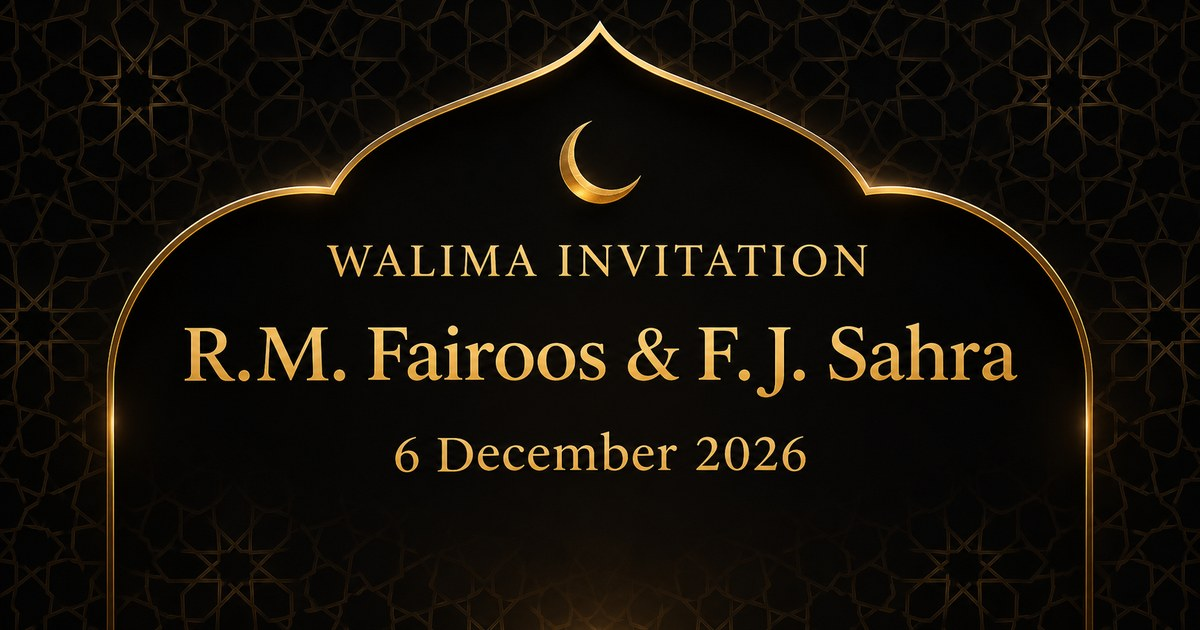
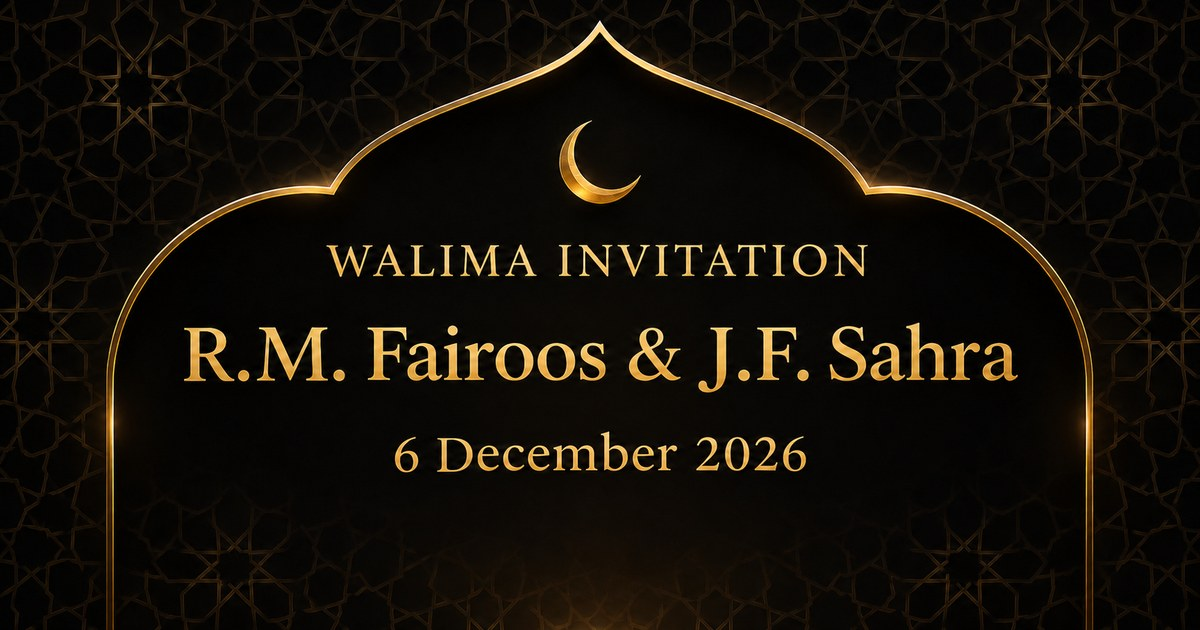
Correct Sahra’s initials to J.F.

diff --git a/index.html b/index.html
@@ -5,16 +5,16 @@
 <meta charset="utf-8">
 <meta name="viewport" content="width=device-width, initial-scale=1, viewport-fit=cover">
 <meta name="theme-color" content="#050507">
-<meta property="og:title" content="Walima · R.M. Fairoos &amp; F.J. Sahra · 6 Dec 2026">
+<meta property="og:title" content="Walima · R.M. Fairoos &amp; J.F. Sahra · 6 Dec 2026">
 <meta property="og:description" content="Join us for our Walima on 6 December 2026 at 12:30 PM at White Reception Hall, Nagawilluwa, Puttalam.">
 <meta property="og:type" content="website">
 <meta property="og:url" content="https://fynextinfo-boop.github.io/walima-invitation/">
-<meta property="og:image" content="https://fynextinfo-boop.github.io/walima-invitation/walima-cover.jpg">
+<meta property="og:image" content="https://fynextinfo-boop.github.io/walima-invitation/walima-cover.jpg?v=jf">
 <meta property="og:image:type" content="image/jpeg">
 <meta property="og:image:width" content="1200">
 <meta property="og:image:height" content="630">
-<meta property="og:image:alt" content="Black and gold Walima invitation for R.M. Fairoos and F.J. Sahra, 6 December 2026.">
-<title>Walima · R.M. Fairoos &amp; F.J. Sahra</title>
+<meta property="og:image:alt" content="Black and gold Walima invitation for R.M. Fairoos and J.F. Sahra, 6 December 2026.">
+<title>Walima · R.M. Fairoos &amp; J.F. Sahra</title>
 <link rel="preconnect" href="https://fonts.googleapis.com">
 <link rel="preconnect" href="https://fonts.gstatic.com" crossorigin>
 <link href="https://fonts.googleapis.com/css2?family=Cinzel:wght@500;600;700&family=Cormorant+Garamond:ital,wght@0,500;0,600;0,700;1,500;1,600&family=Cormorant+SC:wght@500;600;700&family=Great+Vibes&family=Playfair+Display:ital,wght@0,600;0,700;1,600&family=Montserrat:wght@400;500;600;700&family=Mukta+Malar:wght@400;500;600;700&family=Noto+Sans+Tamil:wght@400;500;600;700&family=Noto+Serif+Tamil:wght@500;600;700;800&family=Scheherazade+New:wght@400;700&display=swap" rel="stylesheet">
@@ -1047,7 +1047,7 @@ body.on .dk { transform: translate(-50%, 0); }
         <div id="nameBlock">
           <div class="names shim"><span class="name-init">R.M.</span> Fairoos</div>
           <div class="amp-row"><span class="amp">&amp;</span></div>
-          <div class="names shim"><span class="name-init">F.J.</span> Sahra</div>
+          <div class="names shim"><span class="name-init">J.F.</span> Sahra</div>
         </div>
 
         <!-- BESPOKE STUDIO COUPLE PORTRAIT STAGE -->
@@ -1098,7 +1098,7 @@ body.on .dk { transform: translate(-50%, 0); }
                 </div>
                 <div class="portrait-plaque">
                   <div class="plaque-role" data-en="The Bride" data-ta="மணமகள்">The Bride</div>
-                  <div class="plaque-name" data-en="F.J. Sahra" data-ta="F.J. ஸஹ்ரா">F.J. Sahra</div>
+                  <div class="plaque-name" data-en="J.F. Sahra" data-ta="J.F. ஸஹ்ரா">J.F. Sahra</div>
                 </div>
               </div>
             </div>
@@ -1279,7 +1279,7 @@ body.on .dk { transform: translate(-50%, 0); }
 <script>
 (function(){
   var EVENT = {
-    title: 'Walima – R.M. Fairoos & F.J. Sahra',
+    title: 'Walima – R.M. Fairoos & J.F. Sahra',
     start: '20261206T070000Z',
     end: '20261206T103000Z',
     date: new Date('2026-12-06T12:30:00+05:30'),
@@ -1701,7 +1701,7 @@ body.on .dk { transform: translate(-50%, 0); }
         var n = c[1].replace(/\D/g, '');
         h += '<div class="ct-row"><div class="ct-name">' + c[0] + '<small>' + c[1] + '</small></div><div class="ct-act">' +
              '<a class="ct-b" href="tel:+' + n + '">' + T('Call', 'அழை') + '</a>' +
-             '<a class="ct-b ct-w" target="_blank" rel="noopener noreferrer" href="https://wa.me/' + n + '?text=' + encodeURIComponent('Assalamu Alaikum! Regarding the Walima of R.M. Fairoos & F.J. Sahra on 6 December 2026') + '">WhatsApp</a></div></div>';
+             '<a class="ct-b ct-w" target="_blank" rel="noopener noreferrer" href="https://wa.me/' + n + '?text=' + encodeURIComponent('Assalamu Alaikum! Regarding the Walima of R.M. Fairoos & J.F. Sahra on 6 December 2026') + '">WhatsApp</a></div></div>';
       });
     } else if (type === 'share') {
       h = '<h2>' + T('Share Walima Invitation', 'அழைப்பிதழைப் பகிரவும்') + '</h2>' +
@@ -1721,11 +1721,24 @@ body.on .dk { transform: translate(-50%, 0); }
       playUiClick();
       if (navigator.share) { navigator.share({ title: EVENT.title, url: location.href }).catch(function(){}); }
       else {
-        try { navigator.clipboard.writeText(location.href).then(function(){ toast(T('Link copied to clipboard!', 'அழைப்பிதழ் லிங்க் நகலெடுக்கப்பட்டது!')); }, function(){ throw 0; }); }
-        catch(e){
-          var t2 = document.createElement('textarea'); t2.value = location.href; document.body.appendChild(t2); t2.select();
-          try { document.execCommand('copy'); toast(T('Link copied to clipboard!', 'அழைப்பிதழ் லிங்க் நகலெடுக்கப்பட்டது!')); } catch(x){} t2.remove();
+        function copied(){ toast(T('Link copied to clipboard!', 'அழைப்பிதழ் லிங்க் நகலெடுக்கப்பட்டது!')); }
+        function copyFallback(){
+          var field = document.createElement('textarea');
+          field.value = location.href;
+          field.readOnly = true;
+          field.style.position = 'fixed';
+          field.style.opacity = '0';
+          document.body.appendChild(field);
+          field.select();
+          var success = false;
+          try { success = document.execCommand('copy'); } catch(e){}
+          field.remove();
+          shr.focus({ preventScroll: true });
+          if (success) copied();
+          else toast(T('Could not copy the invitation link', 'அழைப்பிதழ் லிங்கை நகலெடுக்க முடியவில்லை'));
         }
+        if (navigator.clipboard) navigator.clipboard.writeText(location.href).then(copied, copyFallback);
+        else copyFallback();
       }
     };
   }
